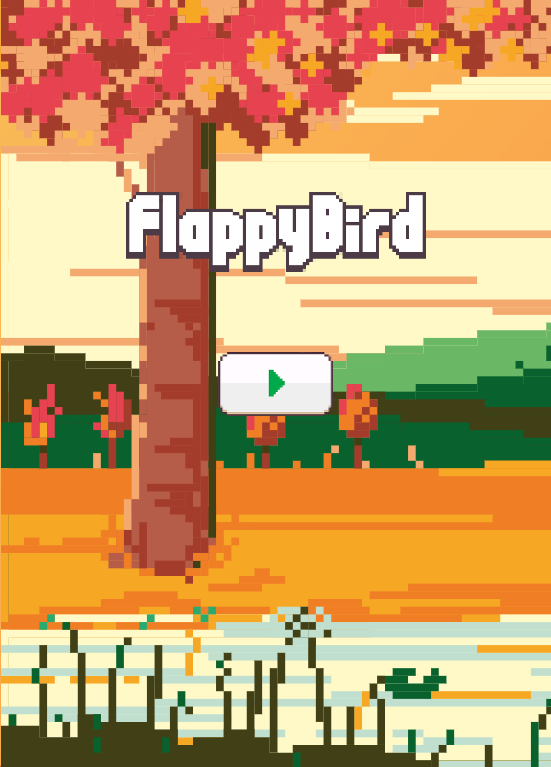
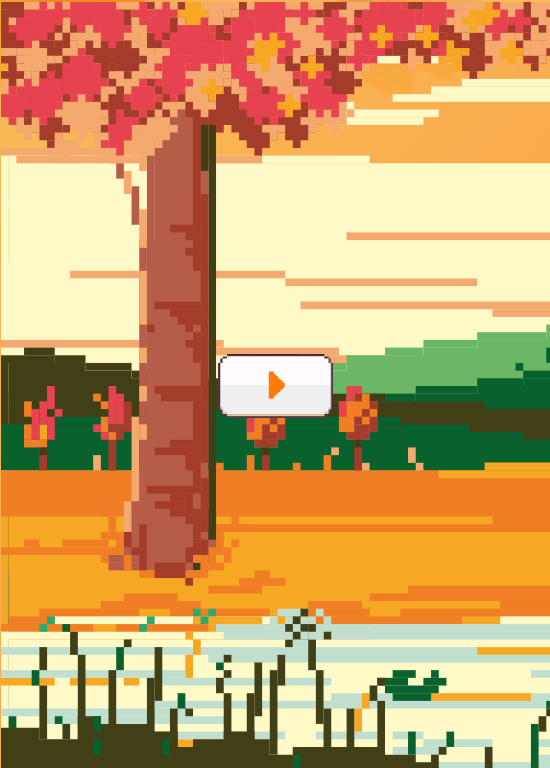
changed bird to a flock of woodcocks and changed thubnail.

diff --git a/script.js b/script.js
@@ -38,8 +38,8 @@ gameOverImg.src = "./flappy-gameover.png";
 let bird = {
     x: 50,
     y: boardHeight / 2,
-    width: 120,
-    height: 90
+    width: 250,
+    height: 150
 }
 
 let velocityY = 0;
@@ -47,7 +47,7 @@ let velocityX = -2;
 let gravity = 0.5; 
 let birdY = boardHeight / 2; 
 let pipeWidth = 100; 
-let pipeGap = 300; 
+let pipeGap = 325; 
 let pipeArray = []; 
 let pipeIntervalId; 
 let dieSoundPlayed = false
@@ -205,7 +205,7 @@ function handleKeyDown(e) {
             resetGame();
             currentState = GAME_STATE.MENU;
         } else if(currentState === GAME_STATE.PLAYING) {
-            velocityY = -12;
+            velocityY = -10;
         }
     }
 }

diff --git a/flappywoodcock.html b/flappywoodcock.html
@@ -13,7 +13,7 @@
     
     <div id="gameText">
         <canvas id="board"></canvas>
-        <p>Help the woodcockS survive it's fall migration by avoiding obstacles!<br>Press space to jump or to start the journey</p>
+        <p>Help the woodcocks survive it's fall migration by avoiding obstacles!<br>Press space to jump or to start the journey</p>
     </div>
     </div>
 </body>
